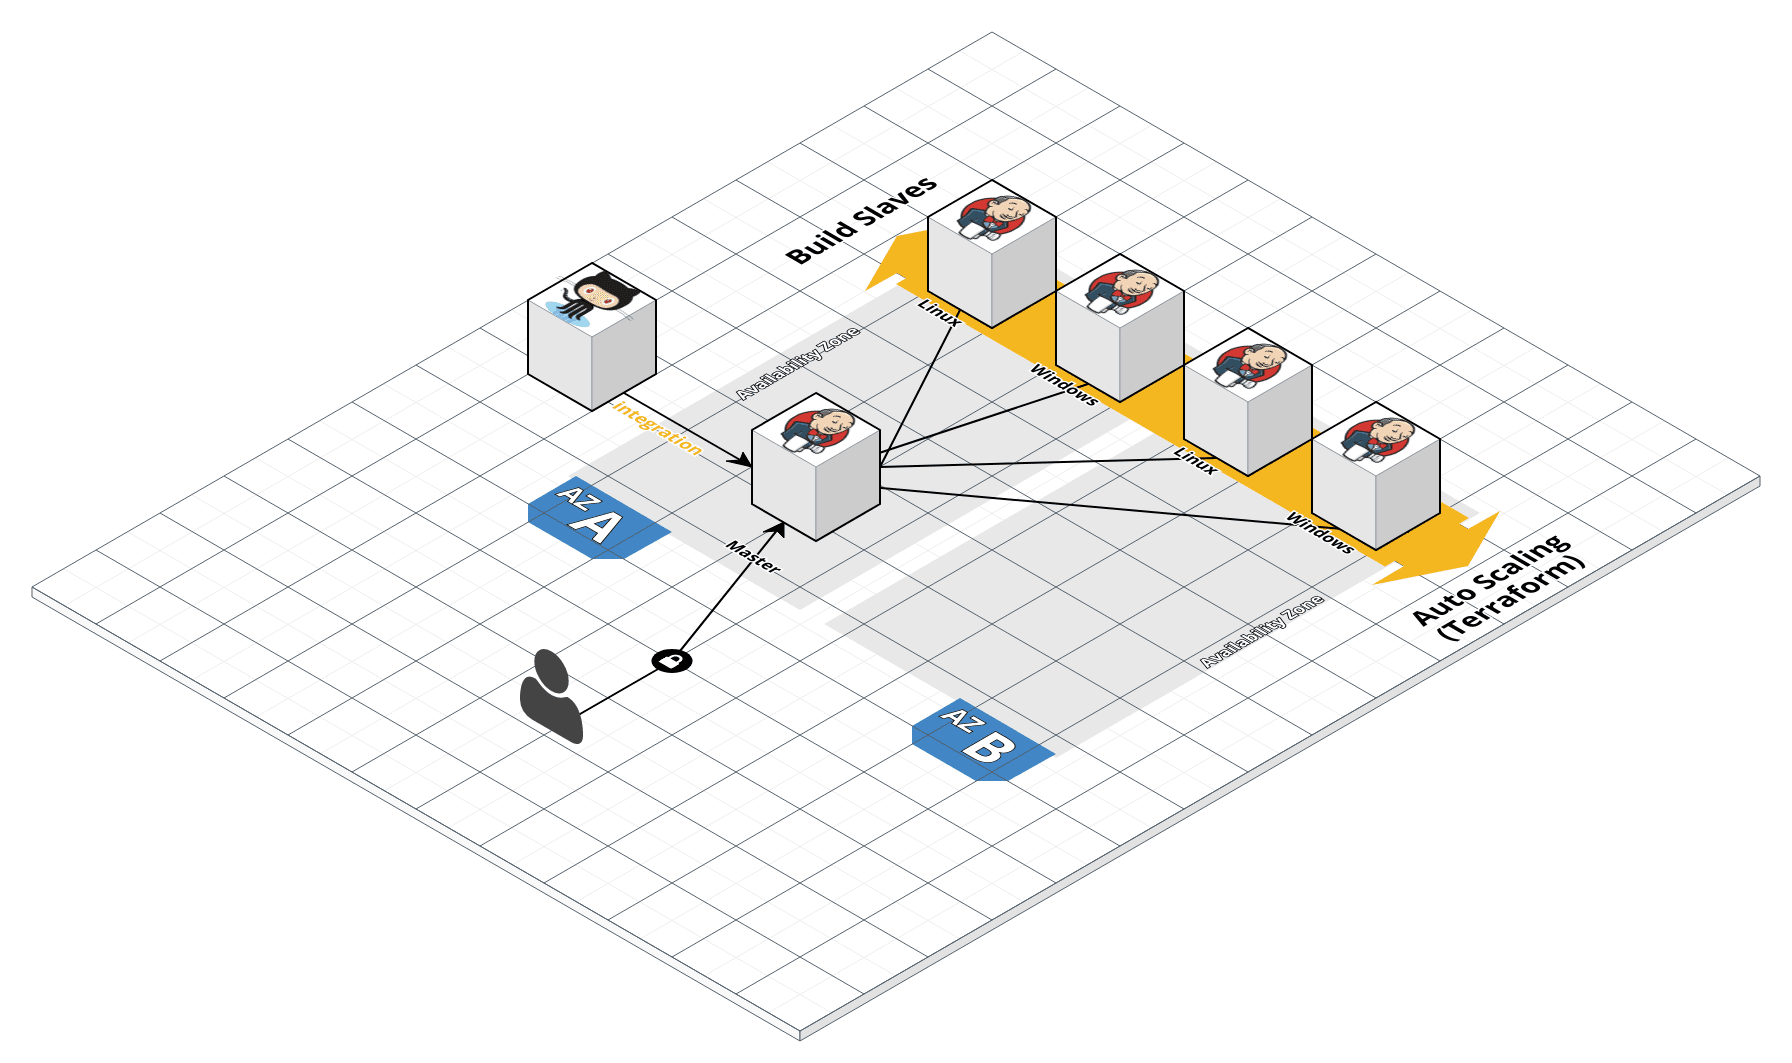
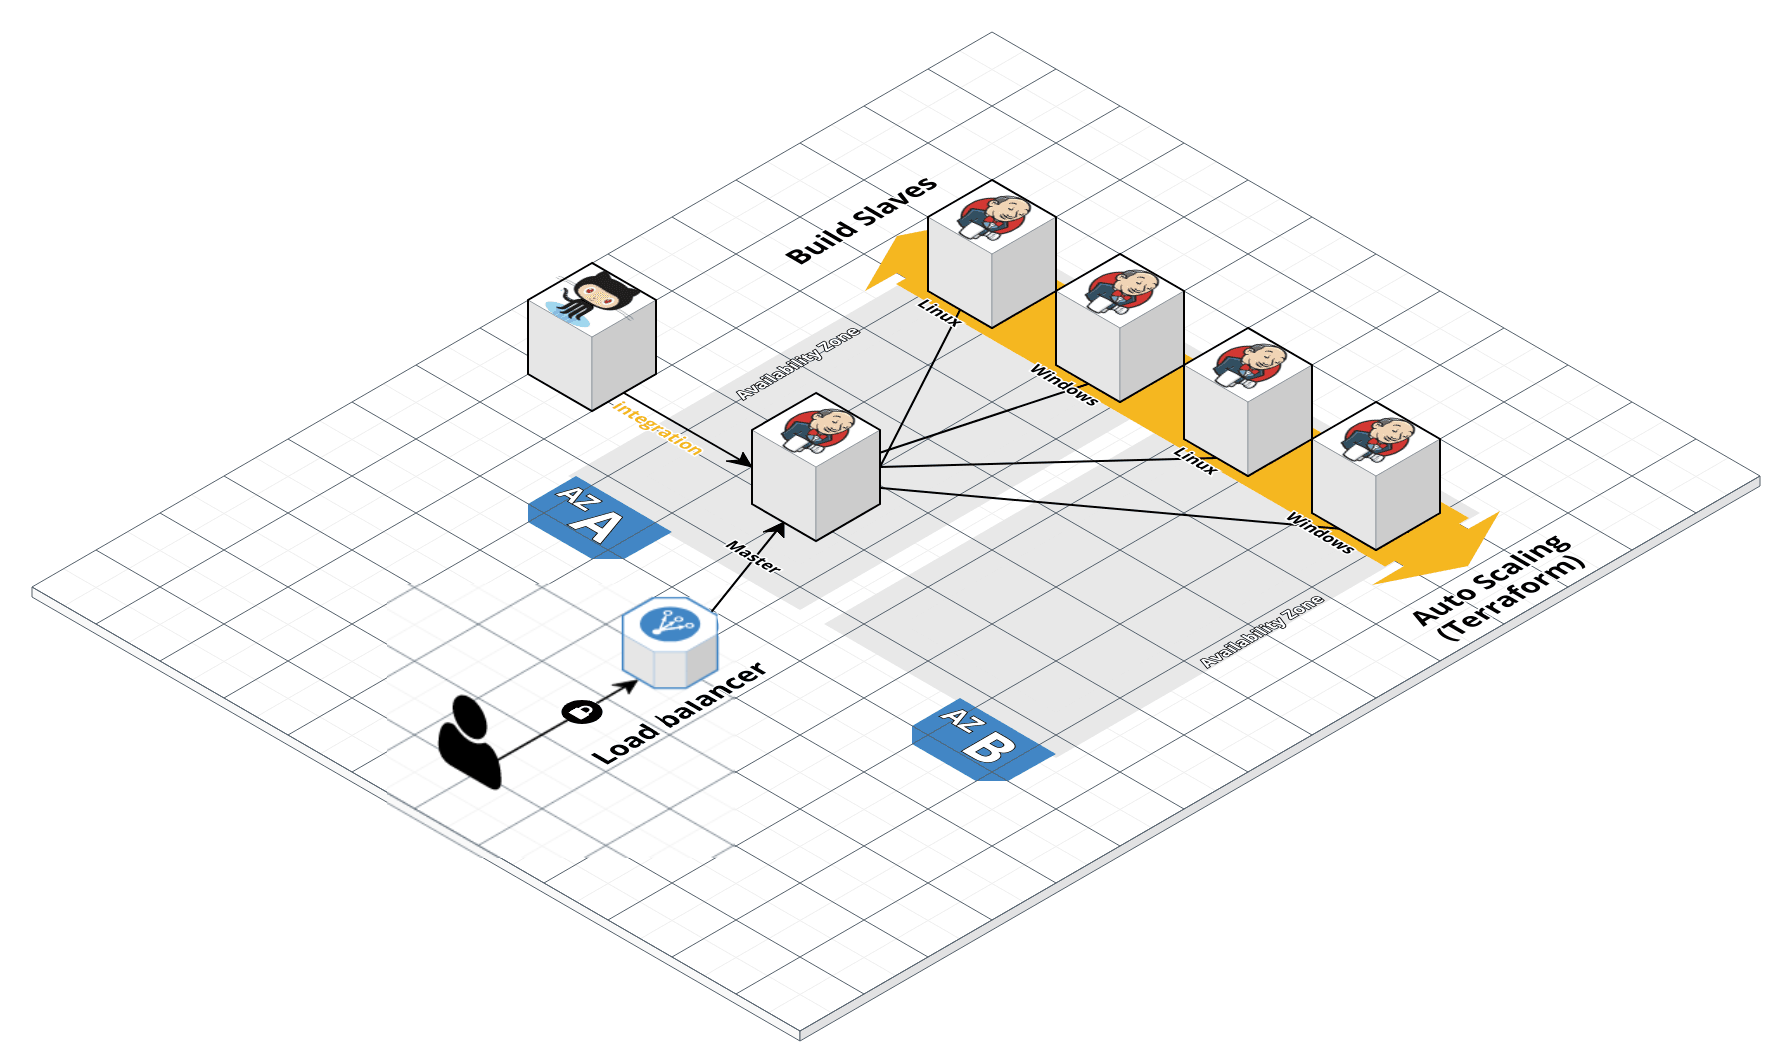
Updated README and architecture diagram

diff --git a/README.md b/README.md
@@ -42,11 +42,18 @@ terraform init
 
 terraform plan --var "ssh_key_name=ignw_dev" \
 --var "ssh_key_path=~/.ssh/ignw_dev.pem" \
---var "linux_slave_count=1"
+--var "linux_slave_count=1" \
+--var aws_ssl_certificate_arn="arn:aws:acm:us-east-1:xxxxxxxxxxx" \
+--var dns_zone="example.com" \
+--var app_dns_name="jenkins.example.com" \
 
 terraform apply --var "ssh_key_name=ignw_dev" \
 --var "ssh_key_path=~/.ssh/ignw_dev.pem" \
---var "linux_slave_count=1"
+--var "linux_slave_count=1" \
+--var aws_ssl_certificate_arn="arn:aws:acm:us-east-1:xxxxxxxxxxx" \
+--var dns_zone="example.com" \
+--var app_dns_name="jenkins.example.com" \
+
 ```
 Argument | Description
 --- | ---
@@ -65,6 +72,9 @@ tags | A map of tags to add to all resources
 master_ami_id | ID of the AMI to use for master instance. Default: lookup latest IGNW master AMI
 linux_slave_ami_id | ID of the AMI to use for linux slave instance(s). Default: lookup latest IGNW linux slave AMI
 win_slave_ami_id | ID of the AMI to use for windows slave instance(s). Default: lookup latest IGNW windows slave AMI
+aws_ssl_certificate_arn | Amazon Resource Name for the certificate to be used on the load balancer for HTTPS
+dns_zone | DNS zone in AWS Route53 to use for the Application Load Balancer (ALB)
+app_dns_name | DNS name within the zone to dynamically point to the ALB
 
 ## What's a Module?
 
